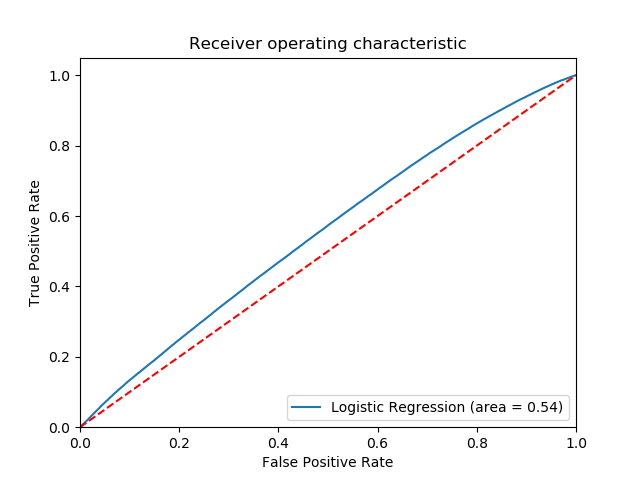
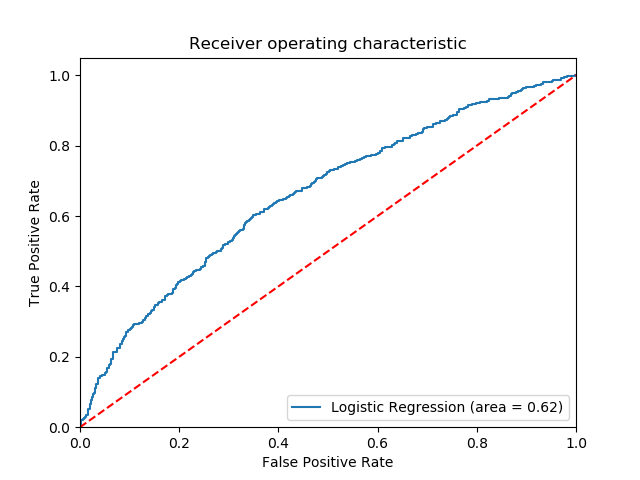
train best model of Logistic Regression

diff --git a/Big_data_ML/Big_data_ML/Big_data_ML.py b/Big_data_ML/Big_data_ML/Big_data_ML.py
@@ -7,15 +7,13 @@ import matplotlib.pyplot as plt
 from sklearn.preprocessing import LabelEncoder
 from sklearn.linear_model import LogisticRegression
 from sklearn.metrics import confusion_matrix, classification_report, roc_auc_score, roc_curve
-from sklearn.model_selection import train_test_split
+from sklearn.model_selection import train_test_split, cross_val_score, cross_val_predict
+from sklearn.externals import joblib
 
 from pyspark.sql import SparkSession
 from pyspark.sql.functions import isnan, when, count, col
 
 from data_types import *
-
-
-
 
 
 def read_csv(filePath):
@@ -161,6 +159,10 @@ def run_data_analysis():
     plt.title('Correlation between from 61th to the last columns')
     plt.show()
 
+def exrport_model(model, filename = 'finalized_model.sav'):
+    # save the model to disk
+    joblib.dump(model, filename)
+
 def train_model(Sample_size, features, label, ALL_DATA = False):
     if ALL_DATA:
         train = pd.read_csv("./train.csv", 
@@ -181,20 +183,25 @@ def train_model(Sample_size, features, label, ALL_DATA = False):
     train = train.fillna(0)
     train = reduce_mem_usage(train)
     free_memory()
-    X_train, X_test, y_train, y_test = train_test_split(train[features], train[label], test_size=0.3, random_state=0)
-    logreg = LogisticRegression()
+    X_train, X_test, y_train, y_test = train_test_split(train[features], train[label], test_size=0.3, random_state=2018)
+    
+    logreg = LogisticRegression(C=0.1 ,penalty='l1',n_jobs = -1, random_state= 2018)
+    #results  = cross_val_score(logreg, X_train, y_train, scoring='roc_auc', cv=3, n_jobs = -1)  
     logreg.fit(X_train, y_train)
-
+    exrport_model(logreg,'logreg.sav')
     y_pred = logreg.predict(X_test)
-    print('Accuracy of logistic regression classifier on test set: {:.2f}'.format(logreg.score(X_test, y_test)))
+    #y_pred = cross_val_predict(logreg, X_test, y_test, scoring='roc_auc', cv=3, n_jobs = -1)
+    #print('\ntest results = {}\n'.format(y_pred))
+    #print('Accuracy of logistic regression classifier on test set: {:.2f}'.format(np.mean(results)))
 
     confusionmatrix = confusion_matrix(y_test, y_pred)
     print(confusionmatrix)
 
     print(classification_report(y_test, y_pred))
-
-    logit_roc_auc = roc_auc_score(y_test, logreg.predict(X_test))
-    fpr, tpr, thresholds = roc_curve(y_test, logreg.predict_proba(X_test)[:,1])
+    proba = logreg.predict_log_proba(X_test)
+    #proba = cross_val_predict(logreg, X_test, y_test, scoring='roc_auc', cv=3, method='predict_proba', n_jobs = -1)
+    logit_roc_auc = roc_auc_score(y_test, y_pred)
+    fpr, tpr, thresholds = roc_curve(y_test, proba[:,1])
     plt.figure()
     plt.plot(fpr, tpr, label='Logistic Regression (area = %0.2f)' % logit_roc_auc)
     plt.plot([0, 1], [0, 1],'r--')
@@ -207,13 +214,47 @@ def train_model(Sample_size, features, label, ALL_DATA = False):
     plt.savefig('Log_ROC')
     plt.show()
 
+def test_pararmeter(Sample_size, features, label):
+    from sklearn.model_selection import GridSearchCV
+    train = pd.read_csv("./train.csv", 
+                            dtype= col_to_load,
+                            usecols= col_to_load.keys(),
+                            nrows= Sample_size)
+    # Pre-process step
+    print('Preprocessing ...')
+    le = LabelEncoder()
+    # Convert categorty type to int
+    for cols in train:
+       if train[cols].dtype.name == 'category':
+            train[cols] = le.fit_transform(train[cols].astype(str))
+            free_memory()
+    train = train.fillna(0)
+
+    train = reduce_mem_usage(train)
+    free_memory()
+    X_train, X_test, y_train, y_test = train_test_split(train[features], train[label], test_size=0.3, random_state=2018)
+    # set dictionary of para
+    grid={"C":np.logspace(-3,3,7), "penalty":["l1","l2"]}# l1 lasso l2 ridge
+
+    #Start testing
+    print('Start test ...')
+    logreg=LogisticRegression()
+    logreg_cv=GridSearchCV(logreg, grid, cv=5, scoring='roc_auc', n_jobs = -1)
+    logreg_cv.fit(X_train,y_train)
+    print('\n------------------------\nEnd test\n')
+    print("tuned hpyerparameters :(best parameters) ",logreg_cv.best_params_)
+    print("accuracy :",logreg_cv.best_score_)
+
 
 def main():
    #
    ks = list(col_to_load)
    features = ks[:68]
    label ='HasDetections'
-   train_model(2000000, features,label)
+   #test_pararmeter(1000000, features,label)
+   train_model(5000,features,label)
+   
+
 
 if __name__ =='__main__':
     main() 
